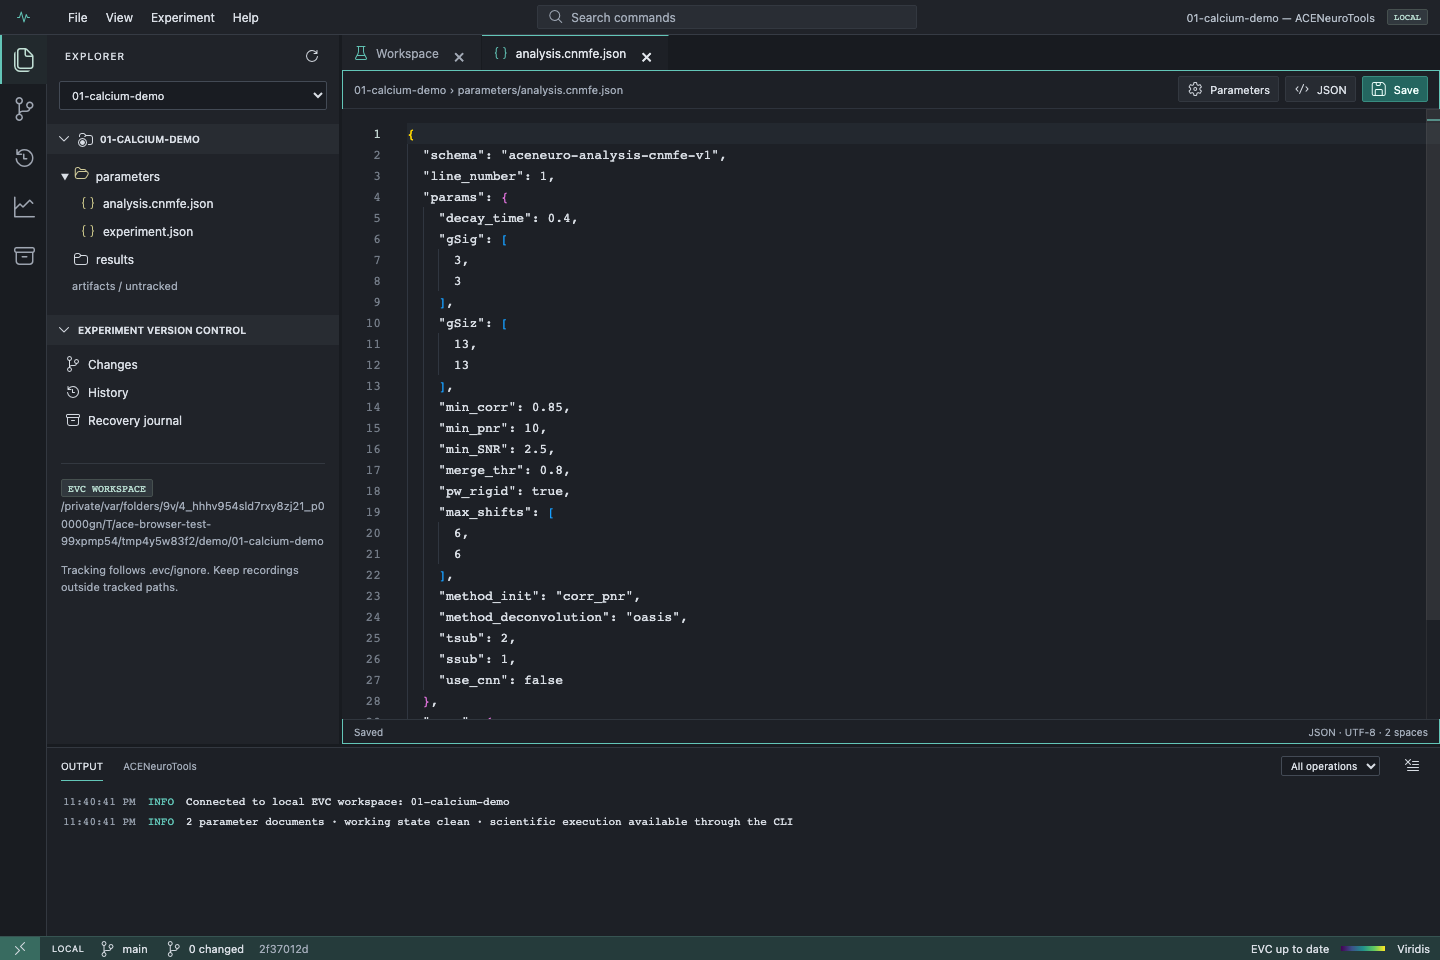
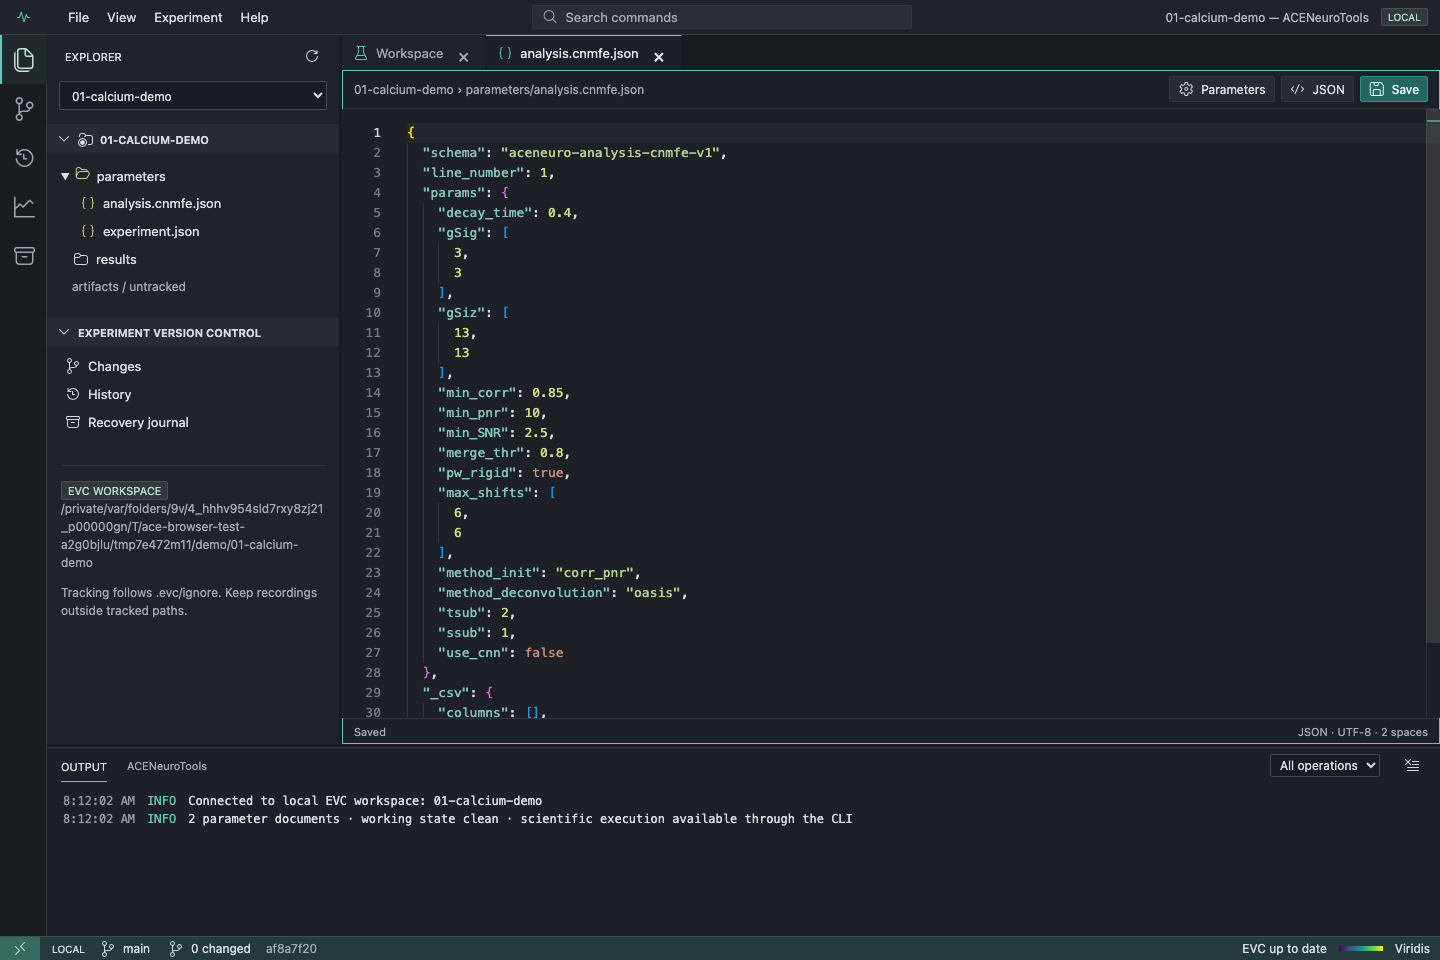
docs: capture verified native typography and refresh workbench previews

diff --git a/gui/docs/VERIFICATION.md b/gui/docs/VERIFICATION.md
@@ -51,7 +51,8 @@ malformed manifest reporting and preserving edits when reopening the demo.
 ## Visual evidence
 
 Screenshots were captured from the running application with real synthetic EVC
-fixtures and inspected, not generated mockups:
+fixtures and inspected, not generated mockups. They were refreshed on 2026-09-17
+after the typography refinement:
 
 - [Desktop JSON editor, 1440×960](screenshots/workbench-desktop.png)
 - [Verified synthetic result traces](screenshots/workbench-results.png)
@@ -61,6 +62,30 @@ The compact screenshot deliberately includes an operation-log entry from its
 invalid-input test. The result plot uses values read from the manifest-listed
 CSV, with canonical viridis color samples. Preview data are synthetic and labeled
 as such. No acquired recording was copied into the repository.
+
+## Typography refinement — 2026-09-17
+
+Chromium's `CSS.getPlatformFontsForNode` confirmed that the original code-font
+stack fell back to Courier on the development Mac: SFMono-Regular, Consolas and
+Liberation Mono were unavailable. The revised shared stack resolves to installed
+Menlo for Monaco code, parameter names and output logs. Interface text and badges
+resolve to the native macOS system font (`.SF NS`). These are measured rendered
+fonts, not just computed CSS declarations; Windows/Linux fallbacks were not
+visually verified on their native platforms.
+
+Controls and tabs now use regular 13 px interface text, secondary text uses 12 px,
+and code/logs use 13/12 px Menlo with ligatures disabled. Decorative letter
+spacing was removed from headings and status labels. The existing IDE layout
+and viridis colors are preserved, with no new font assets or dependencies.
+
+Validation after the change:
+
+- TypeScript and Vite production build passed; local `gui/dist` rebuilt.
+- All 9 Chromium workflow tests passed in 6.7 s, including form accessibility,
+  the compact 1024×768 layout, and Monaco keyboard editing/save.
+- Desktop 1440×960 and compact screenshots were visually inspected.
+- Existing scientific fast suite: 277 passed, 1 skipped in 13.72 s.
+- `git diff --check` passed.
 
 ## Non-blocking observations
 

diff --git a/gui/docs/ARCHITECTURE.md b/gui/docs/ARCHITECTURE.md
@@ -20,12 +20,26 @@ resizable output panel, status bar. Neutral dark surfaces and fine separators;
 viridis purple/blue/teal/green/yellow for active state and scientific traces.
 No generated imagery, chat surface, ornamental cards or glow effects.
 
+## Typography
+
+Use native desktop interface fonts: the macOS system font, Segoe UI on Windows,
+and Ubuntu/Noto Sans where installed on Linux. Main controls and tabs use regular
+13 px text, with 12 px secondary text and compact section labels. Avoid decorative
+letter spacing and monospace status badges.
+
+Code, parameter names, revision identifiers and logs use installed editor fonts:
+Menlo, Monaco, Consolas, Liberation Mono, then DejaVu Sans Mono before the generic
+monospace fallback. Monaco reads the same CSS font stack as the surrounding UI;
+code uses 13 px text and logs/data use 12 px, with ligatures disabled. No text
+font downloads or bundled proprietary fonts are required.
+
 ## Boundaries
 
 `gui/src` → same-origin `/api` → `gui/server/ace_workbench` →
 `aceneurotools.evc.api`. The adapter returns JSON representations of the frozen
 EVC dataclasses. EVC remains authoritative for history and recovery. Monaco
-workers and fonts are bundled locally; no runtime CDN or telemetry.
+workers and Codicons fonts are bundled locally; text uses installed system fonts.
+No runtime CDN or telemetry.
 
 The launcher binds only to 127.0.0.1. It exposes only explicitly configured roots,
 requires a per-launch capability header, rejects foreign origins and unknown
